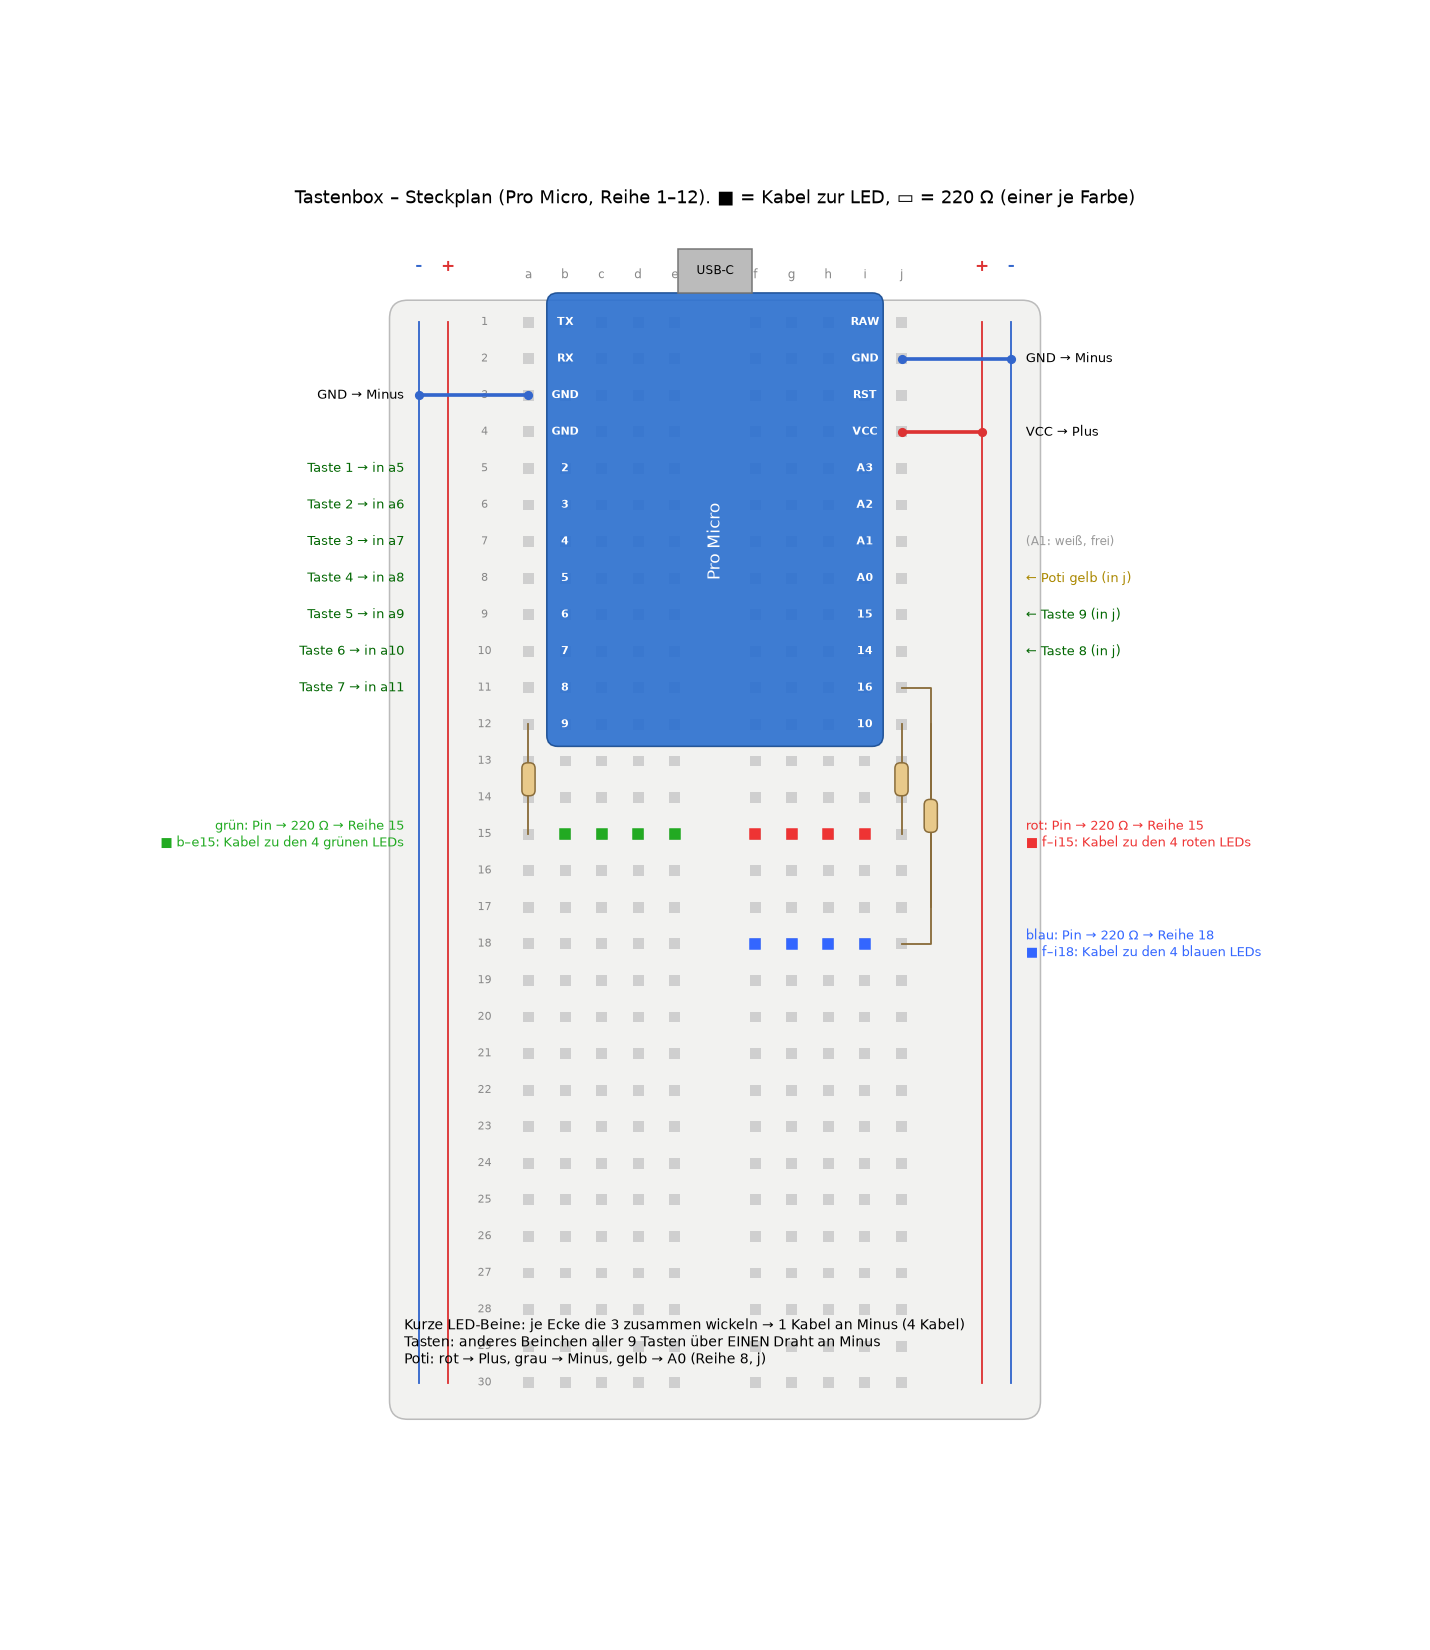
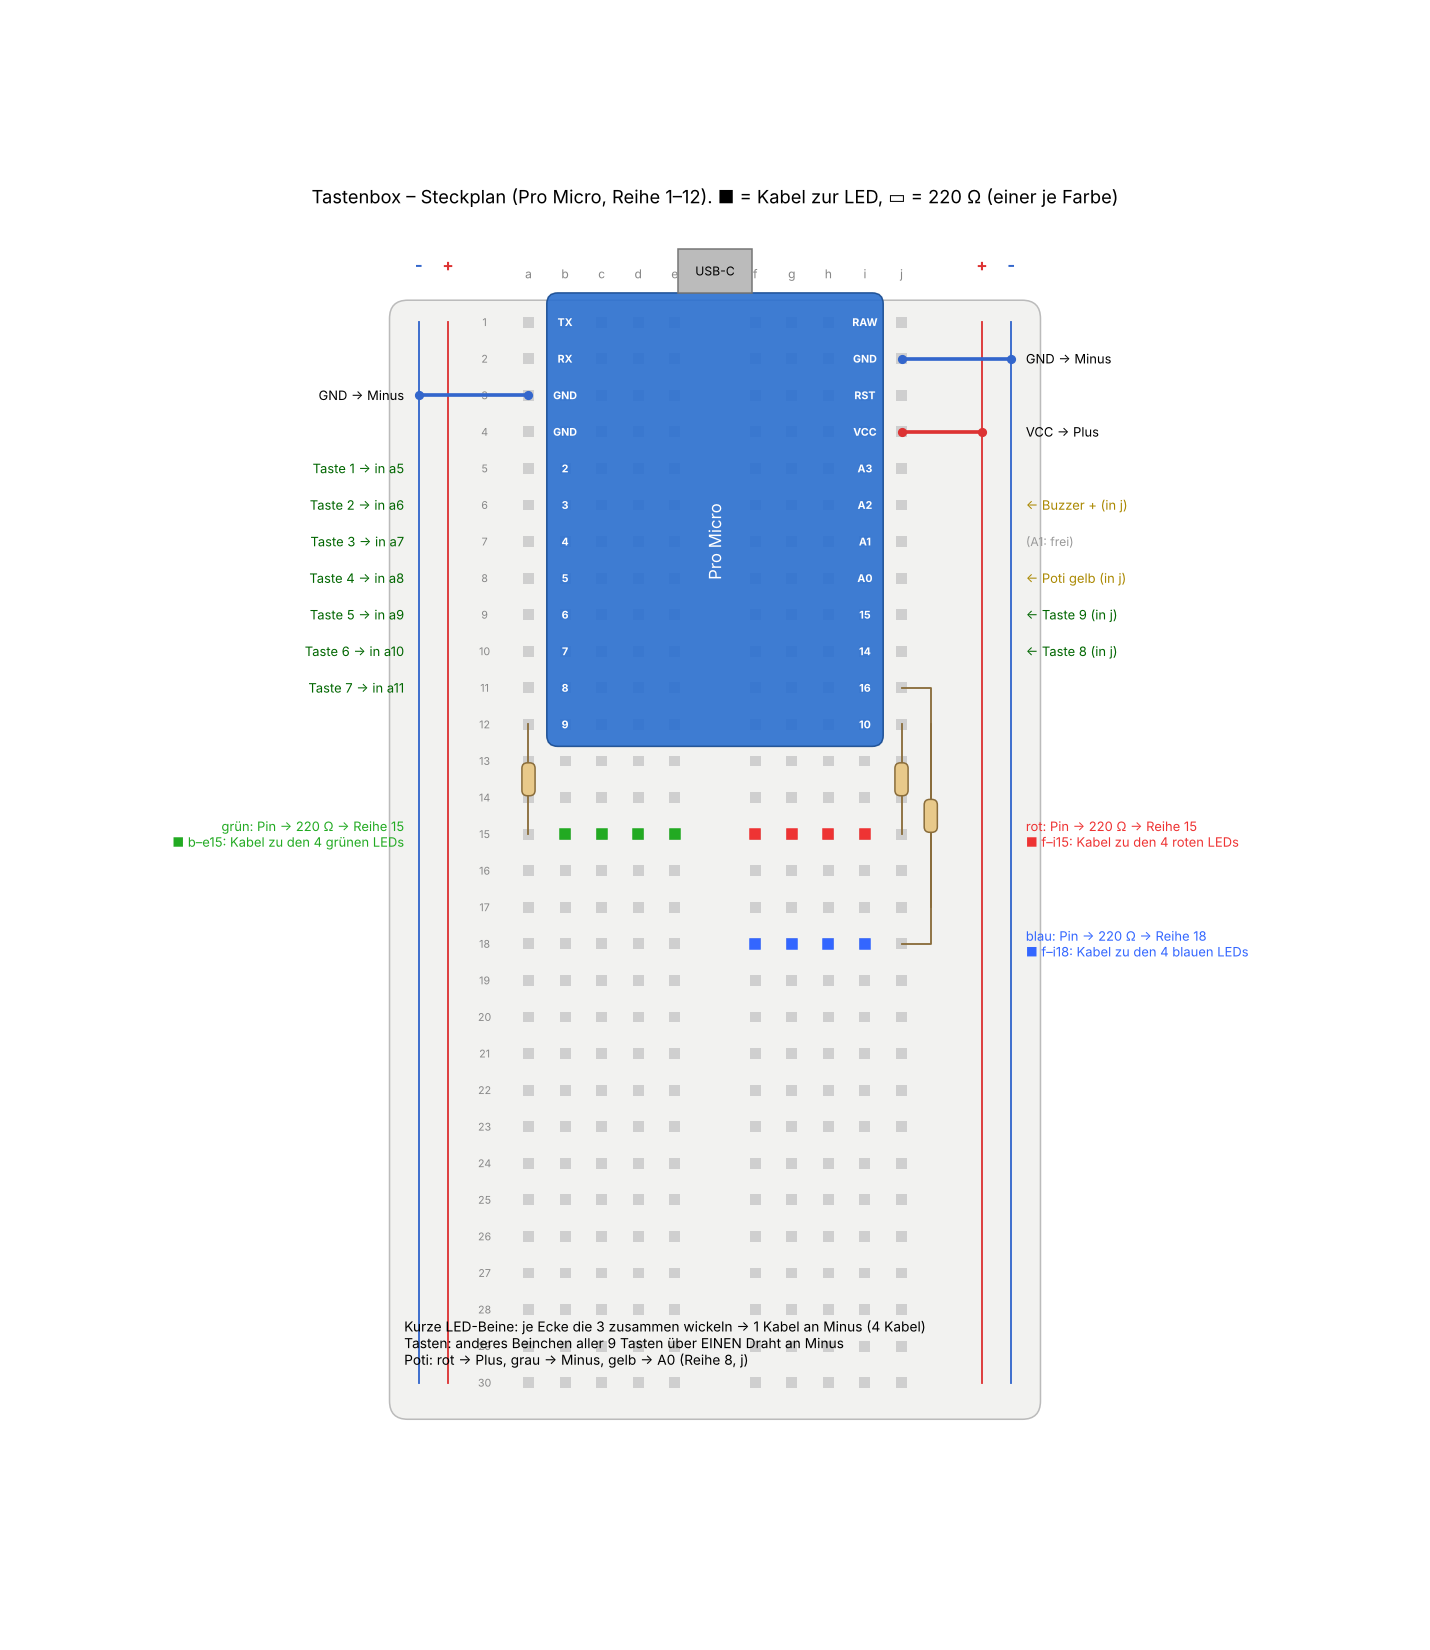
Tastenbox: weiße LEDs entfernt – Programm 8 nur rot, grün, blau; A1 frei [release]
Claude-Session: https://claude.ai/code/session_0112hkB5sXPirJfFc6RfbKoD

diff --git a/tests/test_tastenbox.py b/tests/test_tastenbox.py
@@ -173,7 +173,7 @@ def tastenbox_sketch_exists() -> bool:
     from alupc.ui.tastenbox_page import SKETCH
 
     text = SKETCH.read_text(encoding="utf-8")
-    return all(w in text for w in ("HALLO ALUPC-TASTEN 7", "VIER_FARBEN", "TON ", "BUZZER", "LAUT", "WERT", "TASTE", "LANG", "EFFEKT", "FARBE", "DEBUG", "ROH", "PIXEL",
+    return all(w in text for w in ("HALLO ALUPC-TASTEN 8", "DREI_FARBEN", "TON ", "BUZZER", "LAUT", "WERT", "TASTE", "LANG", "EFFEKT", "FARBE", "DEBUG", "ROH", "PIXEL",
                                    "ARDUINO_AVR_LEONARDO"))
 
 
@@ -539,7 +539,7 @@ def test_arduino_sketches_download(env, monkeypatch, tmp_path):  # noqa: F811
         assert out == tmp_path / name / f"{name}.ino" and out.exists()
         text = out.read_text(encoding="utf-8")
         assert "void setup()" in text and "void loop()" in text and "JTD" in text  # Pro Micro: JTAG aus
-    assert "VIER_FARBEN" in (tmp_path / "AluPC-Tasten" / "AluPC-Tasten.ino").read_text(encoding="utf-8")
+    assert "DREI_FARBEN" in (tmp_path / "AluPC-Tasten" / "AluPC-Tasten.ino").read_text(encoding="utf-8")
 
 
 def _rule(name, folge, ziel, **wenn):

diff --git a/hardware/tastenbox/steckbrett_plan.py b/hardware/tastenbox/steckbrett_plan.py
@@ -73,7 +73,8 @@ for i, row in enumerate(range(5, 12), start=1):
 ax.text(RAIL["R-"] + 0.4, y(9), "← Taste 9 (in j)", va="center", fontsize=8.5, color="#060")
 ax.text(RAIL["R-"] + 0.4, y(10), "← Taste 8 (in j)", va="center", fontsize=8.5, color="#060")
 ax.text(RAIL["R-"] + 0.4, y(8), "← Poti gelb (in j)", va="center", fontsize=8.5, color="#a80")
-ax.text(RAIL["R-"] + 0.4, y(7), "(A1: weiß, frei)", va="center", fontsize=8, color="#999")
+ax.text(RAIL["R-"] + 0.4, y(7), "(A1: frei)", va="center", fontsize=8, color="#999")
+ax.text(RAIL["R-"] + 0.4, y(6), "← Buzzer + (in j)", va="center", fontsize=8.5, color="#a80")
 # LED-Gruppen: Pin-Reihe → EIN Widerstand 220 Ω → Verteiler-Reihe → 4 Kabel zu den 4 LEDs dieser Farbe
 groups = [("grün", "#2a2", "a", 12, 15, "l"), ("rot", "#e33", "j", 12, 15, "r"), ("blau", "#36f", "j", 11, 18, "r")]
 for name, col, c_pin, r_pin, r_v, side in groups:

diff --git a/alupc/ui/tastenbox_page.py b/alupc/ui/tastenbox_page.py
@@ -564,8 +564,8 @@ class TastenboxPage(QWidget):
             what.setWordWrap(True)
             row.addWidget(what, 1)
             dl.addLayout(row)
-        wiring = QLabel("Anschlüsse Pro Micro: Tasten 2–8, 14, 15 · Regler-Mitte A0 · LEDs rot 10, grün 9, blau 16, "
-                        "weiß A1 · Buzzer A2.  Nano: Tasten 2–10 · A0 · LEDs 11, 12, 13, A1 · Buzzer A2.  Je Farbe ein "
+        wiring = QLabel("Anschlüsse Pro Micro: Tasten 2–8, 14, 15 · Regler-Mitte A0 · LEDs rot 10, grün 9, blau 16 · "
+                        "Buzzer A2.  Nano: Tasten 2–10 · A0 · LEDs 11, 12, 13 · Buzzer A2.  Je Farbe ein "
                         "220-Ω-Widerstand für 4 LEDs · das andere Tasten-Bein und die kurzen LED-Beine an Minus (GND).")
         wiring.setObjectName("Muted")
         wiring.setWordWrap(True)

diff --git a/alupc/__init__.py b/alupc/__init__.py
@@ -1,4 +1,4 @@
 """AluPC – Steuerprogramm für einen zweiten Monitor (Kubuntu und Windows 11)."""
 
-__version__ = "2.4.1"
+__version__ = "2.4.2"
 APP_NAME = "AluPC"

diff --git a/hardware/tastenbox/VERKABELUNG.md b/hardware/tastenbox/VERKABELUNG.md
@@ -16,7 +16,8 @@ Klemme (`klemme_pro_micro.py`) die Platine auf die Stifte gedrückt.
 | LEDs rot (4 Stück, je 1 kΩ) | 10 | 11 |
 | LEDs grün (4 Stück, je 1 kΩ) | 9 | 12 |
 | LEDs blau (4 Stück, je 1 kΩ) | 16 | 13 |
-| (frei: weiß, optional) | A1 | A1 |
+| Buzzer + (optional) | A2 | A2 |
+| (frei) | A1, A3 | A1, A3 |
 | Plus / Minus | VCC / GND | 5V / GND |
 
 Hochladen: Arduino-IDE → Board „Arduino Leonardo“ (Pro Micro) bzw. „Arduino Nano“ → Programm aus AluPC
@@ -34,8 +35,8 @@ USB-C zeigt nach oben, Bauteile zu dir:
    GND  ──┤           ├─ RST
    GND  ──┤           ├─ VCC  ◄── Plus-Leiste
   Taste1 2 ─┤         ├─ A3
-  Taste2 3 ─┤         ├─ A2
-  Taste3 4 ─┤         ├─ A1   ◄── LEDs weiß
+  Taste2 3 ─┤         ├─ A2   ◄── Buzzer +
+  Taste3 4 ─┤         ├─ A1   (frei)
   Taste4 5 ─┤         ├─ A0   ◄── Regler (Mitte)
   Taste5 6 ─┤         ├─ 15   ◄── Taste 9
   Taste6 7 ─┤         ├─ 14   ◄── Taste 8
@@ -155,8 +156,8 @@ türkis = grün + blau, alle drei ≈ weiß). Die 4 roten hängen an einem Pin, 
 | Code-Eingabe (Wenn → Dann) | blinkt | automatisch |
 | Regenbogen | alle Ecken laufen durch den Farbkreis | Effekt „Farbwechsel / Regenbogen“ |
 
-Helligkeit, Atmen, Blinken und der Blitz bei Tastendruck gehen wie bisher (Arduino-Programm 6, `#define VIER_FARBEN`
-ist an). Weiße LEDs: nicht in den Ecken nötig – Pin A1 bleibt frei (z. B. später als Licht fürs Zählwerk).
+Helligkeit, Atmen, Blinken und der Blitz bei Tastendruck gehen wie bisher (Arduino-Programm 8, `#define DREI_FARBEN`
+ist an). Weiße LEDs gibt es nicht mehr – Weiß entsteht aus rot + grün + blau; Pin A1 ist frei.
 
 ### Steckplan (Pro Micro auf dem Steckbrett, Reihe 1–12)
 
@@ -195,10 +196,9 @@ für Nano und Pro Micro). Es braucht einen Pro Micro mit 16 MHz (USB-C-Nachbaute
 
 ### Andere LEDs (alte Varianten)
 
-- **Weiße LEDs als 4. Farbe in den Ecken** (Konzept „Kreuz“): `#define WEISS_IN_ECKEN` einschalten, weiß an A1.
-- **Alle LEDs an einem Pin** (nur an/aus/Helligkeit): im Programm `#define VIER_FARBEN` ausschalten (`//` davor),
+- **Alle LEDs an einem Pin** (nur an/aus/Helligkeit): im Programm `#define DREI_FARBEN` ausschalten (`//` davor),
   alle Widerstände an D11 (Pro Micro D9).
-- **RGB-LEDs/Streifen (WS2812B, PL9823):** `VIER_FARBEN` aus, `#define STREIFEN n` an, DIN an D12 (Pro Micro D10).
+- **RGB-LEDs/Streifen (WS2812B, PL9823):** `DREI_FARBEN` aus, `#define STREIFEN n` an, DIN an D12 (Pro Micro D10).
 
 ## 6. Fehlersuche in AluPC
 

diff --git a/packaging/RELEASE_NOTES.md b/packaging/RELEASE_NOTES.md
@@ -9,6 +9,10 @@
 | Linux (x86_64) | `AluPC-linux-x86_64-….tar.gz` | ohne Installation: entpacken, `AluPC/AluPC` starten |
 | Kubuntu / Ubuntu | `AluPC-installieren.sh` | installiert die .deb daneben (oder lädt sie), wartet auf laufende Updates |
 
+### Neu in 2.4.2 – Tastenbox ohne weiße LEDs
+- **Arduino-Programm 8:** nur noch rot, grün, blau (Pins 10, 9, 16). Weiß entsteht aus allen drei; Pin A1 ist frei.
+  Programm neu hochladen (Seite Tastenbox → „Tastenbox-Programm speichern …“).
+
 ### Neu in 2.4.1 – Tastenbox-Eingaben am Monitor
 - **Anzeige unten links am Hauptmonitor** (Seite Tastenbox → „Eingaben unten links am Monitor anzeigen“): das
   Tastenfeld mit allen 9 Funktionen, die gedrückte Taste leuchtet. Kann eine Taste eine Tastenfolge beginnen, läuft
